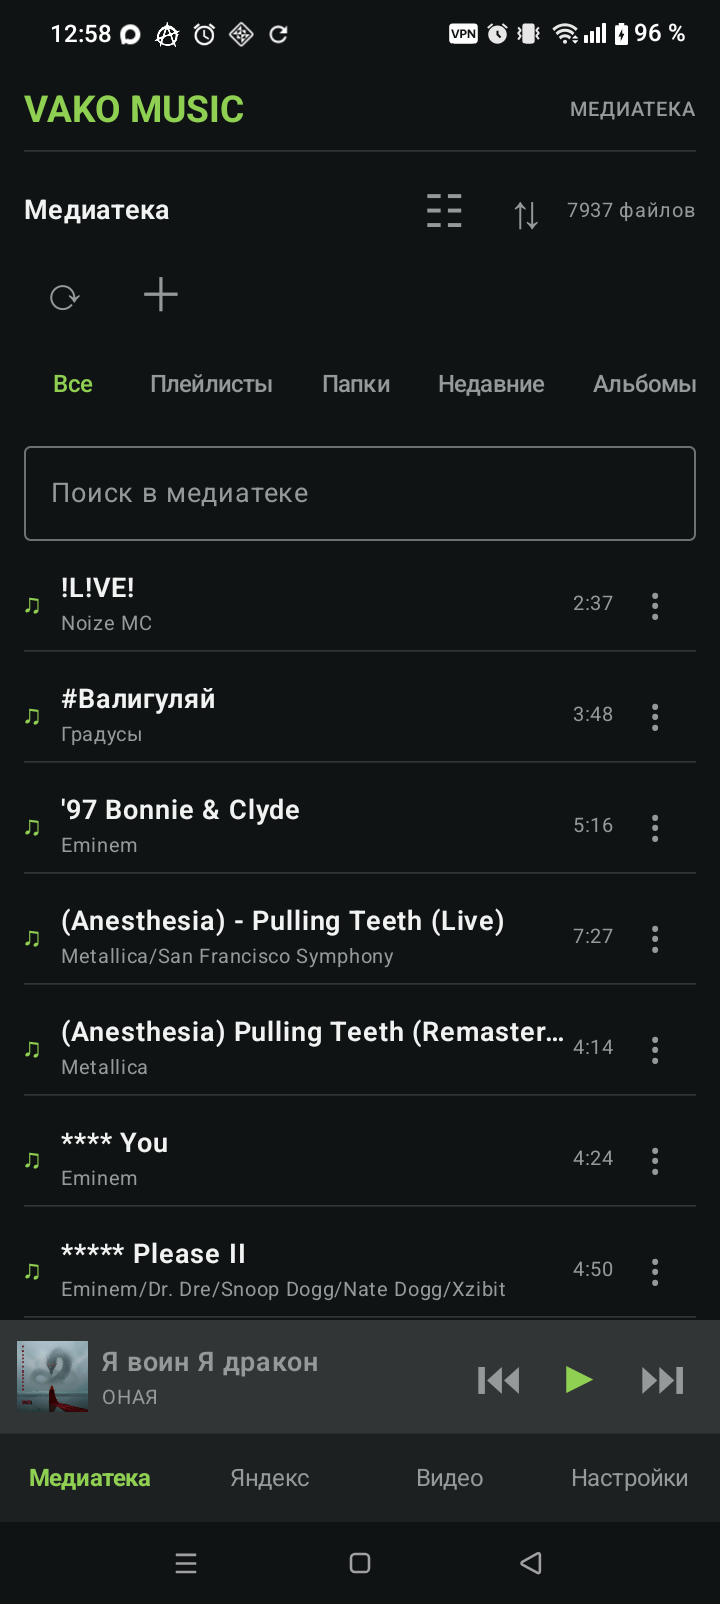
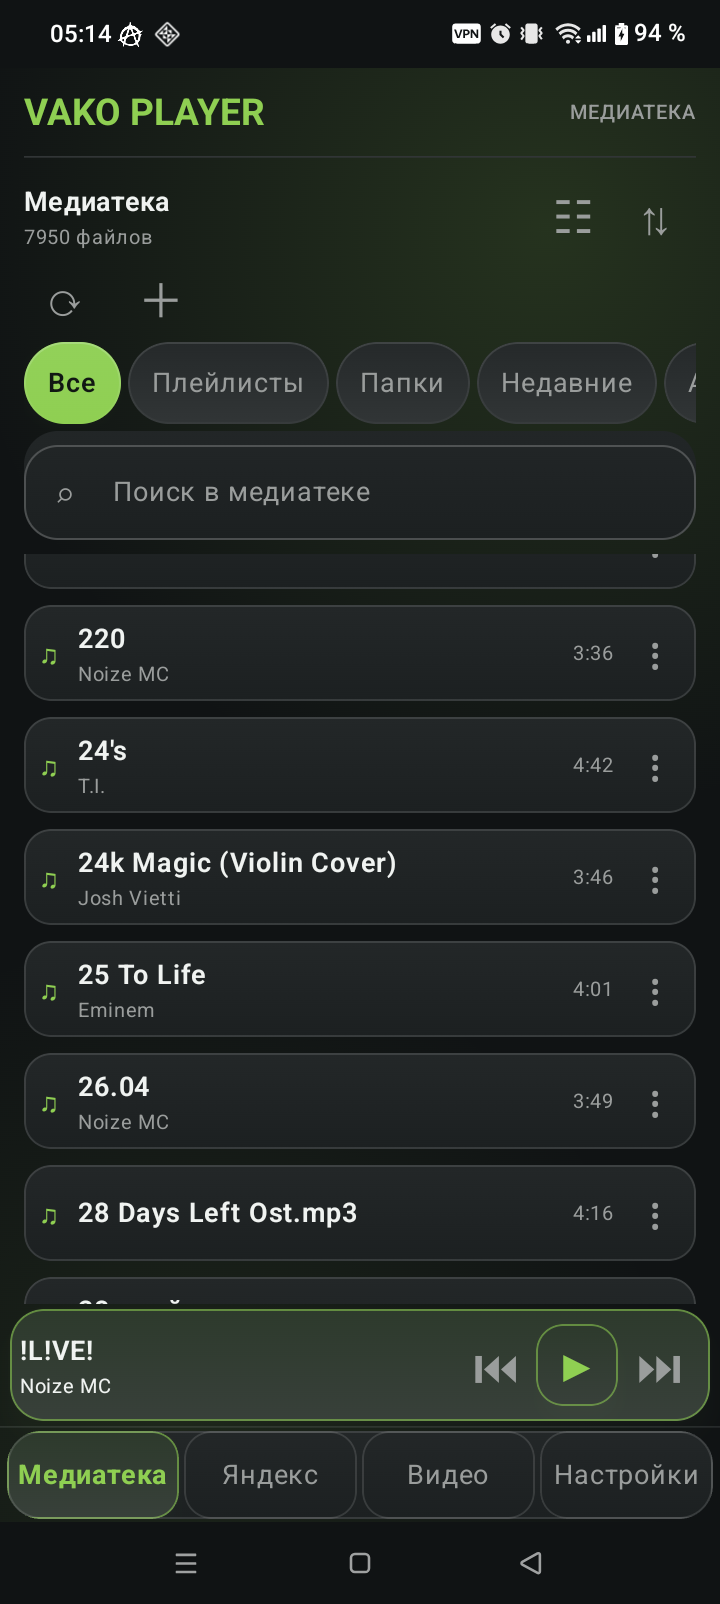
Prepare Vako Player 0.0.2 release

diff --git a/CHANGELOG.md b/CHANGELOG.md
@@ -1,6 +1,36 @@
 # История выпусков
 
-## В разработке — стабилизация после аудита
+## 0.0.2 — Vako Player
+
+### Исправления по аудиту
+
+- [#2](https://github.com/ValentS1997/Vako-Music/issues/2), [#3](https://github.com/ValentS1997/Vako-Music/issues/3), [#6](https://github.com/ValentS1997/Vako-Music/issues/6): проверка границ FLAC/MP4, лимиты сетевой загрузки и памяти, потоковая обработка файлов и удаление незавершённых записей MediaStore.
+- [#4](https://github.com/ValentS1997/Vako-Music/issues/4), [#5](https://github.com/ValentS1997/Vako-Music/issues/5), [#8](https://github.com/ValentS1997/Vako-Music/issues/8): отдельные команды Play/Pause, управление Android Audio Focus и таймер сна в сервисе воспроизведения.
+- [#7](https://github.com/ValentS1997/Vako-Music/issues/7), [#9](https://github.com/ValentS1997/Vako-Music/issues/9), [#10](https://github.com/ValentS1997/Vako-Music/issues/10): отчёт о частично выполненных файловых операциях, ограничение фоновых задач, unit-тесты и запуск тестов в CI.
+
+Эти изменения устраняют выявленные причины в коде. Полные критерии ряда issue включают проверки на других версиях Android, внешних SD-картах, Bluetooth и реальных повреждённых файлах; до их завершения issue остаются открытыми. Декомпозиция `MainActivity` ([#11](https://github.com/ValentS1997/Vako-Music/issues/11)) остаётся в плане.
+
+### Новые возможности
+
+- Видеотека: автопереход к следующему видео, предыдущий/следующий ролик, закладки фрагментов, избранное, видеоплейлисты, история просмотра и продолжение с сохранённой позиции.
+- Видео: покадровый шаг свайпом с точностью, зависящей от файла и декодера, жесты яркости и громкости, масштабирование, субтитры, фон и системное окно «картинка в картинке».
+- Яндекс Музыка: автоподборки, более полное управление треками и собственными плейлистами; удержание плейлиста открывает загрузку в именную папку, переименование и удаление с подтверждением.
+- Мини-плеер: перемотка по полосе прогресса и компактный спектр. Последний выбранный вид полноэкранного плеера сохраняется.
+- Проверка новых выпусков GitHub из настроек и открытие аудио/видео через системное «Открыть в Vako Player».
+
+### Интерфейс
+
+- Новое имя **Vako Player** и значок приложения от владельца проекта.
+- Неоновая тёмная тема, единые панели и кнопки, настраиваемые темы и акценты. Нижние разделы можно переставлять; панель сворачивается при бездействии.
+- Управление видео окрашено по теме, без рамок вокруг кнопок; все элементы скрываются одновременно.
+- Обновлена и расширена [галерея](docs/SCREENSHOTS.md): 15 снимков версии 0.0.2.
+
+### Проверки и ограничения
+
+- `testDebugUnitTest`, `assembleDebug`, `lintDebug` и сборка release APK выполняются в CI или локально; часть сценариев проверена на realme RMX5303 (Android API 36). Подробности и оставшиеся проверки — в [матрице](docs/SMOKE_TEST_MATRIX.md).
+- Интеграция Яндекс Музыки остаётся неофициальной. Доступность треков и форматов зависит от аккаунта и ответа сервиса.
+
+## Внутренняя стабилизация перед 0.0.2
 
 - Загрузка аудио во временный файл с ограничением размера, проверкой длины ответа и потоковой записью тегов; скачанные частичные файлы не публикуются.
 - Проверка границ таблиц FLAC/MP4 и контролируемая ошибка для повреждённых контейнеров.
@@ -9,7 +39,7 @@
 - Unit-тесты и запуск `testDebugUnitTest` в CI; матрица проверок на устройствах — [docs/SMOKE_TEST_MATRIX.md](docs/SMOKE_TEST_MATRIX.md).
 - Кодек сохранённой очереди выделен для unit-тестов; некорректный индекс восстанавливается в пределах списка.
 
-Эта ветка не является новым релизом; проверки на физических устройствах для неё ещё не проводились.
+Частичная проверка на физическом устройстве задокументирована в [матрице](docs/SMOKE_TEST_MATRIX.md).
 
 ## 0.0.1 — первый публичный выпуск
 

diff --git a/docs/SCREENSHOTS.md b/docs/SCREENSHOTS.md
@@ -1,21 +1,39 @@
-# Экраны Vako Player 0.0.1
+# Экраны Vako Player 0.0.2
 
-Снимки сделаны на Android-смартфоне. Они показывают рабочий интерфейс первой публичной версии; названия треков, видео и плейлистов принадлежат тестовой медиатеке пользователя.
+Снимки сделаны на Android-смартфоне с установленной тестовой сборкой 0.0.2. Названия треков, видео и плейлистов принадлежат медиатеке пользователя.
 
-| Локальная музыка | Локальные плейлисты | Исполнители |
+## Локальная медиатека
+
+| Все треки | Плейлисты | Накопители |
 | :---: | :---: | :---: |
-| <img src="screenshots/library.png" alt="Общий список локальных треков" width="220"> | <img src="screenshots/local-playlists.png" alt="Локальные плейлисты" width="220"> | <img src="screenshots/artists.png" alt="Список исполнителей" width="220"> |
+| <img src="screenshots/library.png" alt="Список локальных треков" width="220"> | <img src="screenshots/local-playlists.png" alt="Локальные плейлисты" width="220"> | <img src="screenshots/folders.png" alt="Память телефона и карта памяти" width="220"> |
 
-| Плейлисты Яндекс Музыки | Поиск исполнителей | Локальное видео |
+## Воспроизведение
+
+| Обложка | Визуализация «Зеркало» | Визуализация «Искры» |
 | :---: | :---: | :---: |
-| <img src="screenshots/yandex-playlists.png" alt="Мои плейлисты Яндекс Музыки" width="220"> | <img src="screenshots/yandex-search.png" alt="Результаты поиска Яндекс Музыки" width="220"> | <img src="screenshots/video.png" alt="Список видео и продолжение просмотра" width="220"> |
+| <img src="screenshots/now-playing.png" alt="Полноэкранный плеер с обложкой" width="220"> | <img src="screenshots/visualizer.png" alt="Аудиовизуализация Зеркало" width="220"> | <img src="screenshots/visualizer-sparks.png" alt="Аудиовизуализация Искры" width="220"> |
 
-| Настройки | Цвета темы | Полноэкранный плеер |
+| Мини-плеер с прогрессом |
+| :---: |
+| <img src="screenshots/mini-player.png" alt="Мини-плеер с перемоткой" width="220"> |
+
+## Яндекс Музыка
+
+| Мои плейлисты | Поисковый запрос | Результаты поиска | Автоподборки |
+| :---: | :---: | :---: | :---: |
+| <img src="screenshots/yandex-playlists.png" alt="Свои плейлисты и Мне нравится" width="190"> | <img src="screenshots/yandex-search-input.png" alt="Поиск в Яндекс Музыке" width="190"> | <img src="screenshots/yandex-search.png" alt="Результаты поиска исполнителей" width="190"> | <img src="screenshots/yandex-collections.png" alt="Локальные автоподборки" width="190"> |
+
+## Видео
+
+| Видеоплеер |
+| :---: |
+| <img src="screenshots/video-player.png" alt="Видеоплеер с переходом к соседним видео" width="220"> |
+
+## Темы
+
+| Тёмная тема | Светлая тема | Серая тема |
 | :---: | :---: | :---: |
-| <img src="screenshots/settings.png" alt="Разделы настроек" width="220"> | <img src="screenshots/theme.png" alt="Настройка темы и цвета элементов" width="220"> | <img src="screenshots/now-playing.png" alt="Плеер с обложкой альбома" width="220"> |
-
-| Спектр | Искры |
-| :---: | :---: |
-| <img src="screenshots/visualizer.png" alt="Визуализация Спектр" width="220"> | <img src="screenshots/visualizer-sparks.png" alt="Визуализация Искры" width="220"> |
+| <img src="screenshots/theme.png" alt="Настройка цветов тёмной темы" width="220"> | <img src="screenshots/theme-light.png" alt="Светлая тема с красным акцентом" width="220"> | <img src="screenshots/theme-gray.png" alt="Серая тема с голубым акцентом" width="220"> |
 
 [Вернуться к описанию проекта](../README.md).

diff --git a/README.md b/README.md
@@ -4,15 +4,15 @@
 
 Нижние разделы можно переставлять долгим нажатием и перетаскиванием. Через 15 секунд панель сворачивается в кнопку «Разделы»; её можно открыть касанием. Настройки Яндекс Музыки и аккаунта находятся на одной странице.
 
-**Первый публичный релиз — 0.0.1.** Номера 0.5.0–0.18.0 в [истории разработки](docs/DEVELOPMENT_HISTORY.md) относились к внутренним прототипам. `versionCode` равен 19, чтобы установленная тестовая сборка могла обновиться без потери данных при совпадении подписи APK.
+**Актуальная версия — 0.0.2.** Номера 0.5.0–0.18.0 в [истории разработки](docs/DEVELOPMENT_HISTORY.md) относились к внутренним прототипам. `versionCode` равен 20. При совпадении сертификата подписи Android установит обновление поверх 0.0.1 с сохранением данных.
 
 ## Как выглядит приложение
 
-| Медиатека | Яндекс Музыка | Видеотека | Плеер |
+| Медиатека | Яндекс Музыка | Видео | Плеер |
 | :---: | :---: | :---: | :---: |
-| <img src="docs/screenshots/library.png" alt="Общий список локальных треков" width="190"> | <img src="docs/screenshots/yandex-playlists.png" alt="Плейлисты Яндекс Музыки и Мне нравится" width="190"> | <img src="docs/screenshots/video.png" alt="Список локальных видео" width="190"> | <img src="docs/screenshots/now-playing.png" alt="Полноэкранный аудиоплеер с обложкой" width="190"> |
+| <img src="docs/screenshots/library.png" alt="Общий список локальных треков" width="190"> | <img src="docs/screenshots/yandex-playlists.png" alt="Плейлисты Яндекс Музыки и Мне нравится" width="190"> | <img src="docs/screenshots/video-player.png" alt="Просмотр видео" width="190"> | <img src="docs/screenshots/now-playing.png" alt="Полноэкранный аудиоплеер с обложкой" width="190"> |
 
-[Галерея экранов](docs/SCREENSHOTS.md) показывает плейлисты, поиск, настройки цветов и визуализации. На снимках — реальные пользовательские медиатеки; названия композиций и плейлистов приведены только как примеры.
+[Галерея из 15 экранов](docs/SCREENSHOTS.md) показывает папки, плейлисты, поиск, автоподборки, видео, настройки цветов и визуализации. На снимках — реальные пользовательские медиатеки; названия композиций и плейлистов приведены только как примеры.
 
 ## Что можно делать
 
@@ -54,7 +54,7 @@
 
 ## Установка
 
-Скачайте `Vako-Music-v0.0.1.apk` на странице [Releases](https://github.com/ValentS1997/Vako-Music/releases/tag/v0.0.1). Android может попросить разрешить установку из выбранного источника. Инструкции по проверке подписи и сборке из исходников находятся в [docs/RELEASE_SIGNATURE.md](docs/RELEASE_SIGNATURE.md) и [docs/BUILDING.md](docs/BUILDING.md).
+Скачайте `Vako-Player-v0.0.2.apk` на странице [Releases](https://github.com/ValentS1997/Vako-Music/releases/tag/v0.0.2). Android может попросить разрешить установку из выбранного источника. Инструкции по проверке подписи и сборке из исходников находятся в [docs/RELEASE_SIGNATURE.md](docs/RELEASE_SIGNATURE.md) и [docs/BUILDING.md](docs/BUILDING.md).
 
 Обновление ранее установленного тестового APK без удаления возможно только при совпадении сертификата подписи. Если Android требует переустановку, сначала сохраните важные локальные данные приложения.
 

diff --git a/docs/BUILDING.md b/docs/BUILDING.md
@@ -25,14 +25,14 @@ Gradle создаст `app/build/outputs/apk/release/app-release-unsigned.apk`. 
 Пример для Android Build Tools (значения путей и паролей подставляет владелец ключа):
 
 ```bash
-zipalign -p -f 4 app/build/outputs/apk/release/app-release-unsigned.apk vako-music-aligned.apk
-apksigner sign --ks /secure/path/vako-music-release.p12 --ks-type PKCS12 --ks-key-alias vako-music --out vako-music-0.0.1.apk vako-music-aligned.apk
-apksigner verify --verbose vako-music-0.0.1.apk
+zipalign -p -f 4 app/build/outputs/apk/release/app-release-unsigned.apk vako-player-aligned.apk
+apksigner sign --ks /secure/path/vako-music-release.p12 --ks-type PKCS12 --ks-key-alias vako-music --out Vako-Player-v0.0.2.apk vako-player-aligned.apk
+apksigner verify --verbose Vako-Player-v0.0.2.apk
 ```
 
-Публичный релиз 0.0.1 использует `versionCode` 19. Это сохраняет возможность обновления существующих тестовых установок только при совпадении сертификата; при разных сертификатах нужна переустановка после сохранения данных. Пакет приложения — `ru.rikko.music`.
+Публичный релиз 0.0.2 использует `versionCode` 20. Обновление 0.0.1 поверх установленного приложения возможно при совпадении сертификата; при разных сертификатах нужна переустановка после сохранения данных. Пакет приложения — `ru.rikko.music`.
 
-Для первого публичного выпуска создан отдельный релизный ключ в локальном каталоге `~/.local/share/vako-build/release-signing/`, который не попадает в Git. Владелец проекта должен отдельно сохранить резервную копию файла ключа и пароля. Публичный отпечаток сертификата записан в [RELEASE_SIGNATURE.md](RELEASE_SIGNATURE.md).
+Для публичных выпусков используется релизный ключ из локального каталога `~/.local/share/vako-build/release-signing/`, который не попадает в Git. Владелец проекта должен отдельно сохранить резервную копию файла ключа и пароля. Публичный отпечаток сертификата записан в [RELEASE_SIGNATURE.md](RELEASE_SIGNATURE.md).
 
 ## CI
 

diff --git a/docs/RELEASE_SIGNATURE.md b/docs/RELEASE_SIGNATURE.md
@@ -1,10 +1,11 @@
-# Подпись публичного APK 0.0.1
+# Подпись публичных APK
 
 - Пакет: `ru.rikko.music`
 - Сертификат: `CN=Valentin Paramut`
[3 lines of base64/hex data omitted]
 
-APK выровнен через `zipalign` и подписан через Android `apksigner`. `apksigner verify --min-sdk-version 29` завершился успешно. Ключ подписи и пароль не входят в репозиторий и GitHub Release.
+APK 0.0.2 выровнен через `zipalign` и подписан тем же сертификатом, что и 0.0.1. `apksigner verify --min-sdk-version 29` завершился успешно. Ключ подписи и пароль не входят в репозиторий и GitHub Release.
 
 При скачивании APK сравните SHA-256 с файлом `SHA256SUMS.txt` в релизе. Для обновления Android требует тот же сертификат; отладочные APK прежних прототипов подписаны другим ключом.

diff --git a/SECURITY.md b/SECURITY.md
@@ -1,6 +1,6 @@
 # Безопасность
 
-Поддерживаемая публичная версия: **0.0.1**.
+Поддерживаемая публичная версия: **0.0.2**.
 
 Если вы обнаружили утечку токена, уязвимость в хранении данных или возможность несанкционированного изменения файлов, сообщите владельцу **приватно** через [Security Advisories репозитория](https://github.com/ValentS1997/Vako-Music/security/advisories/new), если GitHub предоставляет эту форму. Не публикуйте токены, реальные медиафайлы, персональные пути или подробный сценарий эксплуатации в открытом issue.
 

diff --git a/docs/PRIVACY.md b/docs/PRIVACY.md
@@ -1,6 +1,6 @@
 # Конфиденциальность
 
-Vako Player — локальное Android-приложение. В версии 0.0.1 нет собственной серверной части, рекламных SDK или аналитики. Приложение не отправляет список локальных файлов владельцу проекта.
+Vako Player — локальное Android-приложение. В версии 0.0.2 нет собственной серверной части, рекламных SDK или аналитики. Приложение не отправляет список локальных файлов владельцу проекта.
 
 ## Какие данные используются
 

diff --git a/docs/ARCHITECTURE.md b/docs/ARCHITECTURE.md
@@ -1,4 +1,4 @@
-# Архитектура Vako Player 0.0.1
+# Архитектура Vako Player 0.0.2
 
 Одномодульное Android-приложение на Kotlin и Jetpack Compose. Минимальная версия Android — API 29, целевая и версия компиляции — API 34. Для видео используется Media3 ExoPlayer; аудио воспроизводится через Android `MediaPlayer` в фоновом `PlaybackService` с `MediaSession`.
 
